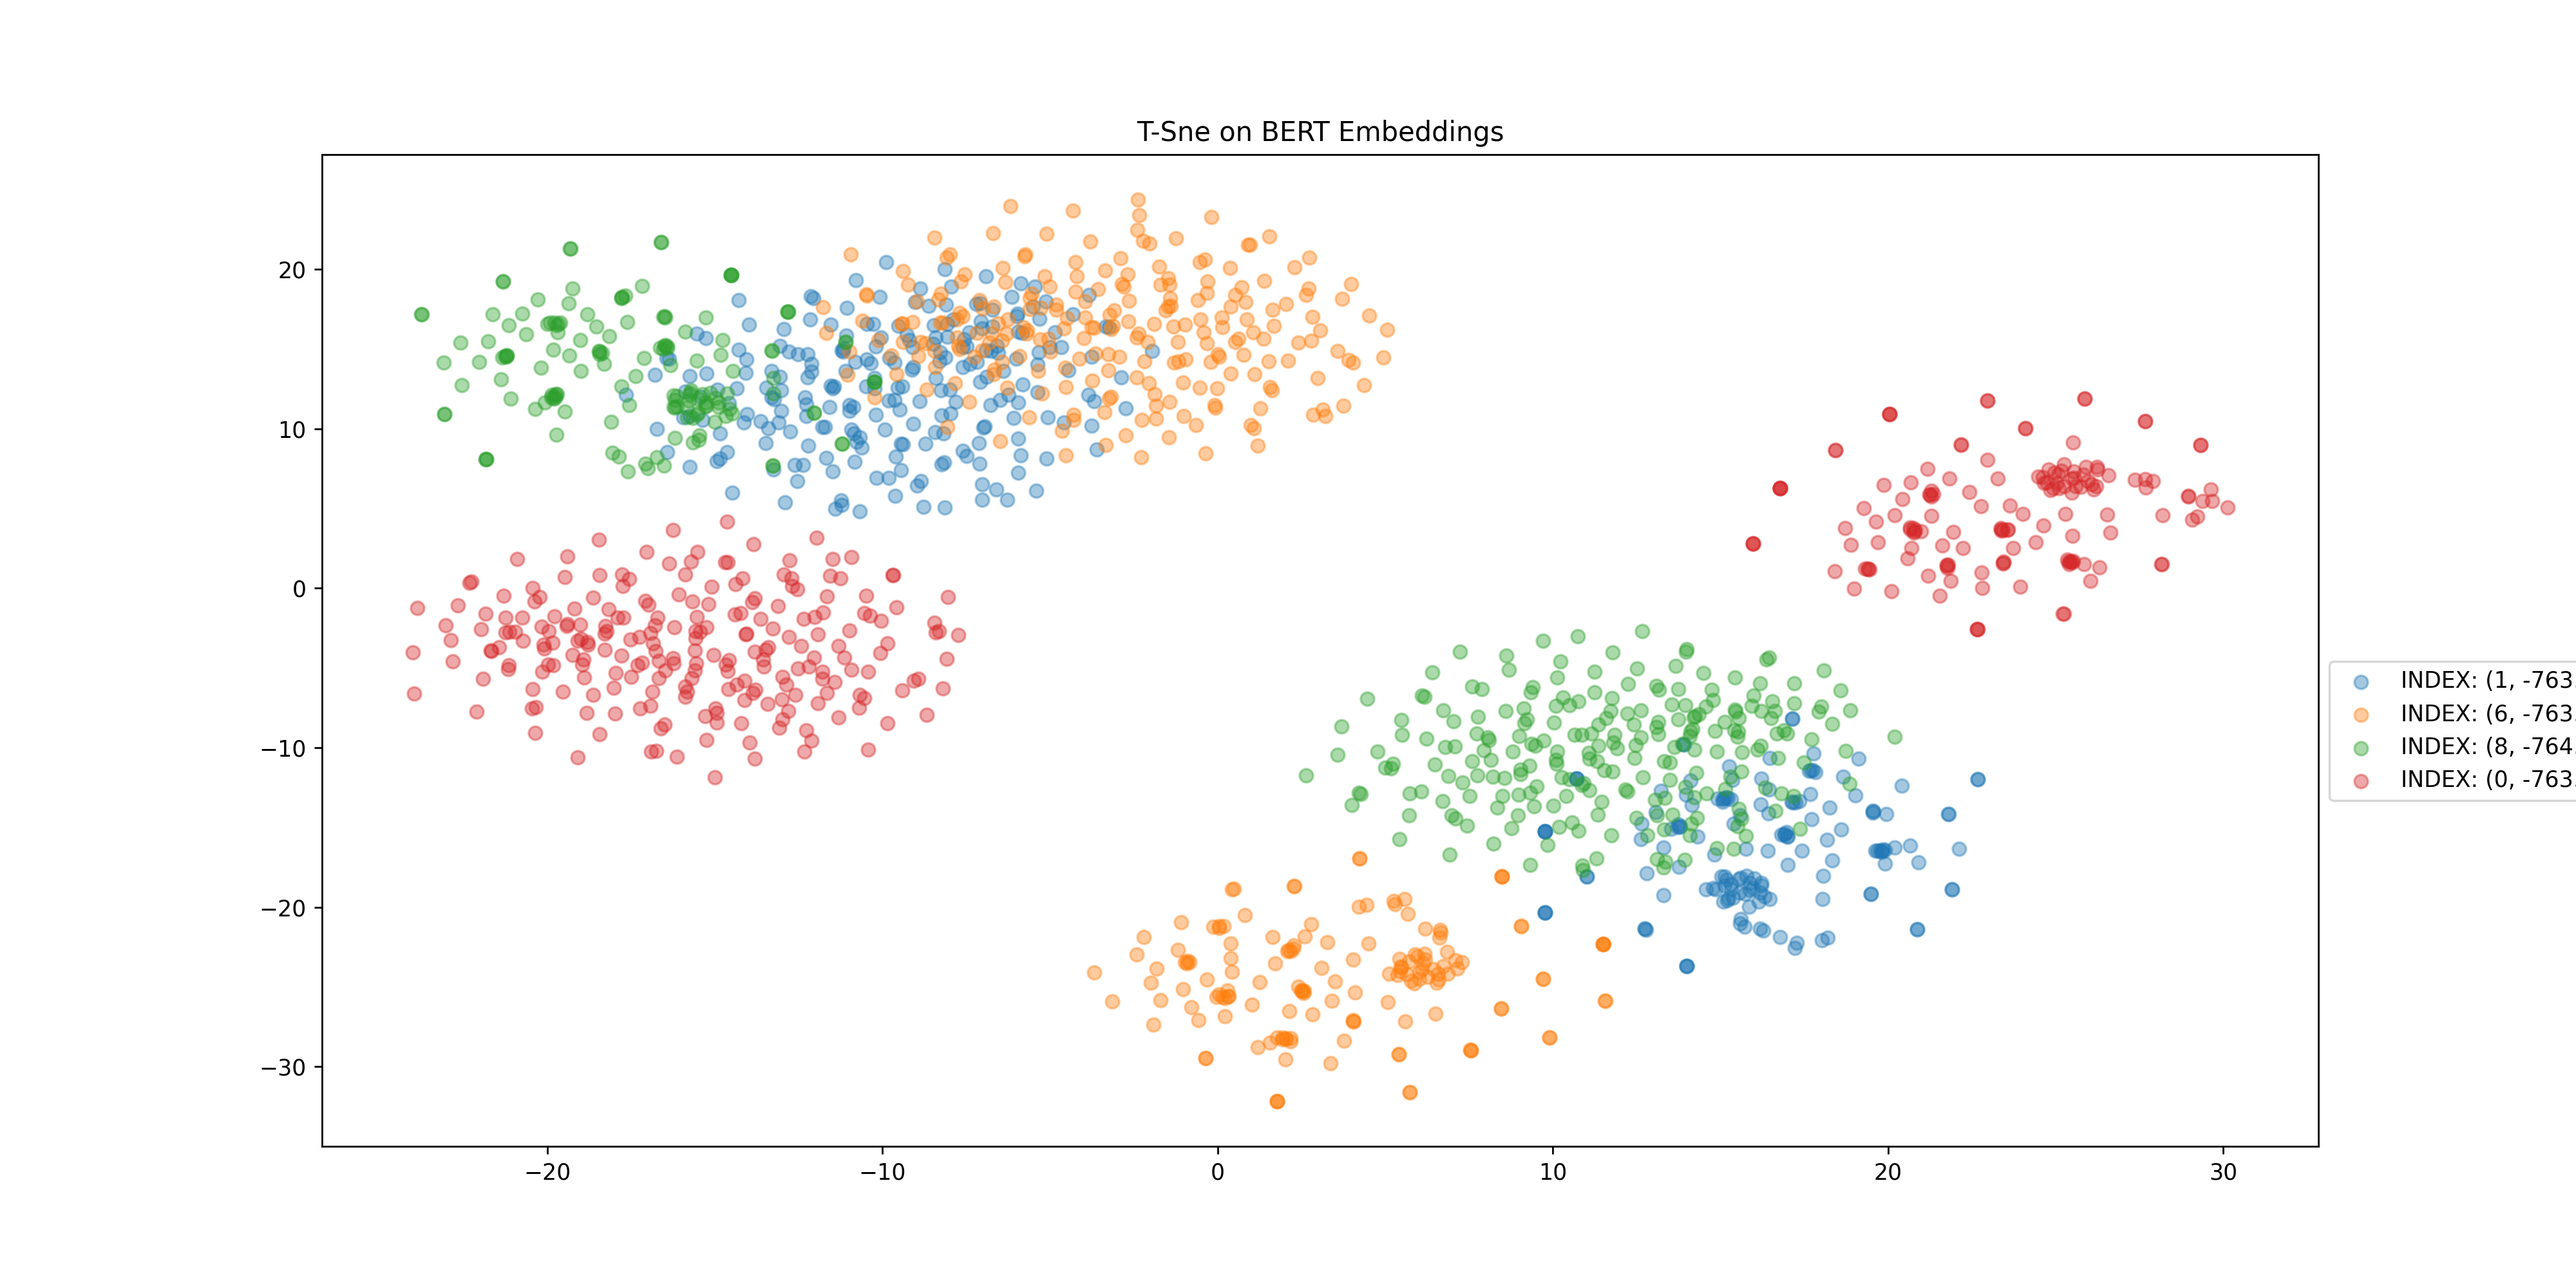
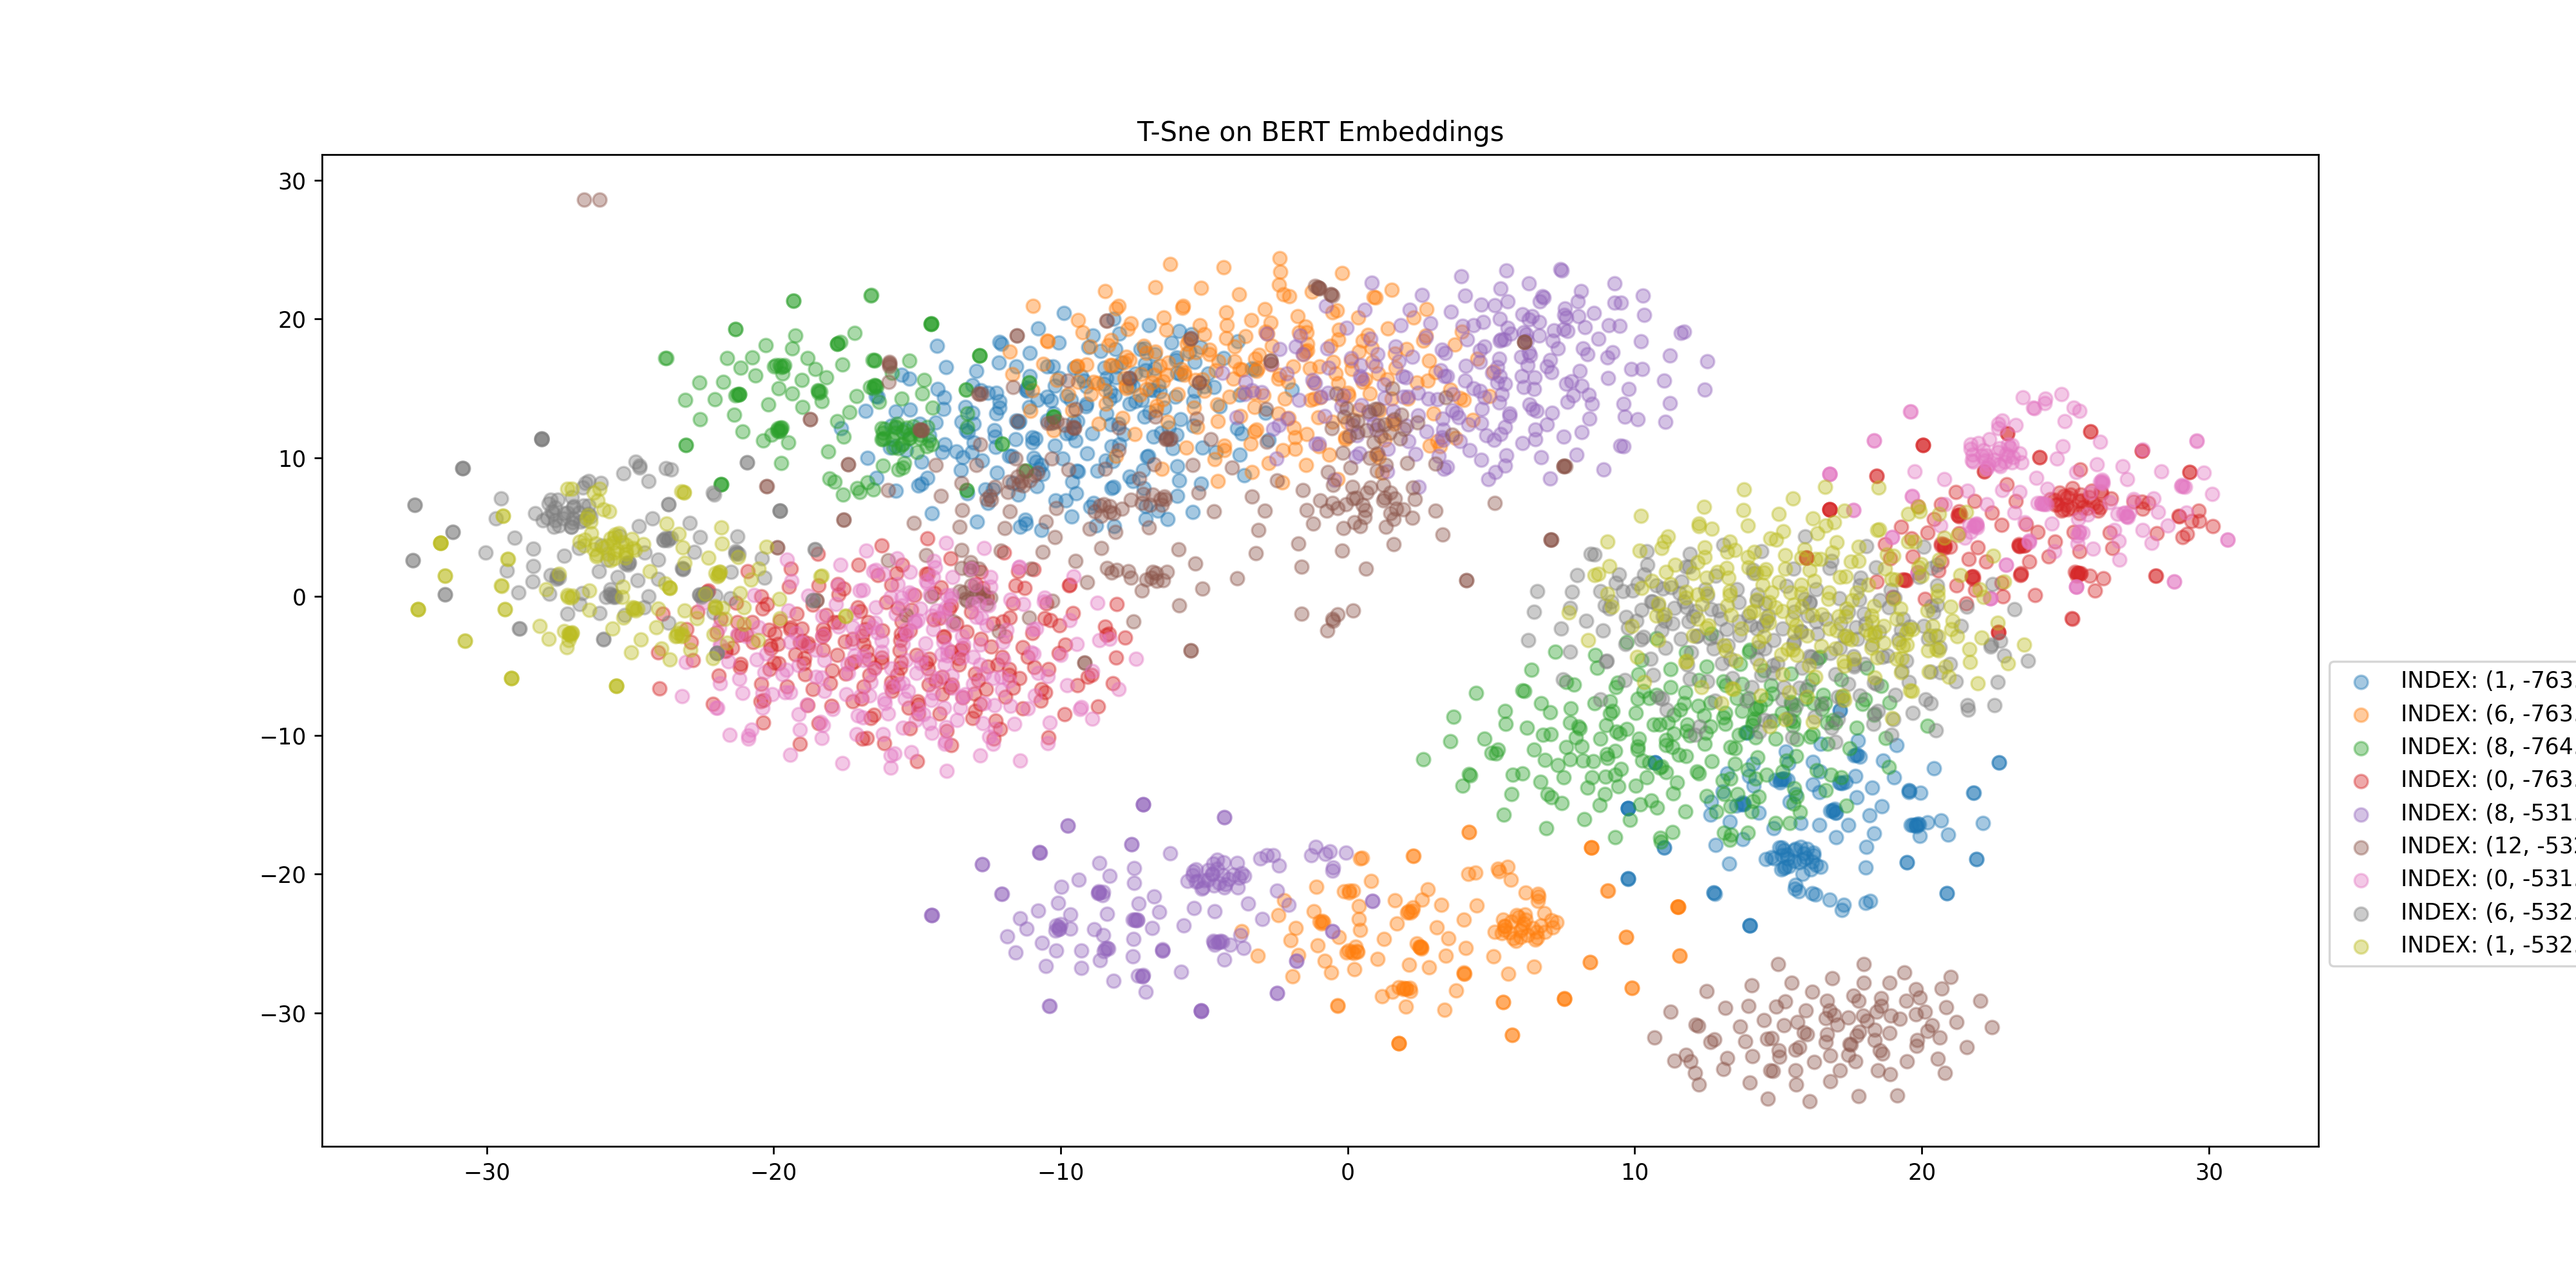
more graphs for your raps

diff --git a/utils/embeddings.py b/utils/embeddings.py
@@ -53,10 +53,22 @@ def emb_visualizer(model, dataset, tokenizer, args):
             input_embs = model.bert_enc.embeddings(input_ids=input_ids)
             cos_sims = cos_similarity(input_embs)            
             topk = topk_embedding_sentences(cos_sims, 4, input_ids, tokenizer)
+            bottomk = topk_embedding_sentences(cos_sims, 4, input_ids, tokenizer, bottom=True)
+
             input_embs = input_embs.to('cpu')
+            print('MOST SIMILAR')
             for k in topk.keys():
                 legend_text = 'INDEX: ' + str(topk[k]) + ': ' + k
+                print(legend_text)
                 index, sim = topk[k]
+                # Plot T-SNE visualization
+                X_embedded = TSNE(n_components=2).fit_transform(input_embs[index])
+                plt.scatter(X_embedded[:, 0], X_embedded[:, 1], alpha=0.4, label=legend_text)
+            print('LEAST SIMILAR')
+            for k in bottomk.keys():
+                legend_text = 'INDEX: ' + str(bottomk[k]) + ': ' + k
+                print(legend_text)
+                index, sim = bottomk[k]
                 # Plot T-SNE visualization
                 X_embedded = TSNE(n_components=2).fit_transform(input_embs[index])
                 plt.scatter(X_embedded[:, 0], X_embedded[:, 1], alpha=0.4, label=legend_text)
@@ -66,16 +78,29 @@ def emb_visualizer(model, dataset, tokenizer, args):
     plt.title('T-Sne on BERT Embeddings')
     plt.savefig('embeddings_scattered', dpi=250)
 
-def topk_embedding_sentences(cossims, k, batch_ids, tokenizer):
+def topk_embedding_sentences(cossims, k, batch_ids, tokenizer, bottom=False):
+    '''
+    Returns the k most or least similar embeddings
+    '''
     top = {}
-    for _ in range(k):
-        sim, idxs = heapq.heappop(cossims)
-        i, j = idxs
-        sentence_i = get_sentence(batch_ids[i], tokenizer)
-        sentence_j = get_sentence(batch_ids[j], tokenizer)
-        top[sentence_i] = (i, sim)
-        top[sentence_j] = (j, sim)
-    
+    if not bottom:
+        most_similar = heapq.nsmallest(k, cossims)
+        for sim, idxs in most_similar:
+            i, j = idxs
+            sentence_i = get_sentence(batch_ids[i], tokenizer)
+            sentence_j = get_sentence(batch_ids[j], tokenizer)
+            top[sentence_i] = (i, sim)
+            top[sentence_j] = (j, sim)
+    else:
+        # Least similar embeddings have greatest values in minheap
+        least_similar = heapq.nlargest(k, cossims)
+        for sim, idxs in least_similar:
+            i, j = idxs
+            sentence_i = get_sentence(batch_ids[i], tokenizer)
+            sentence_j = get_sentence(batch_ids[j], tokenizer)
+            top[sentence_i] = (i, sim)
+            top[sentence_j] = (j, sim)
+
     return top
 
 def get_sentence(ids, tokenizer):
